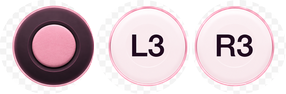
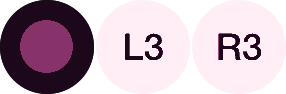
new

diff --git a/option_1/edit.css b/option_1/edit.css
@@ -1,4 +1,4 @@
-/* Sakura PS4 Gamepad Viewer Skin */
+/* Sakura PS4 Gamepad Viewer Skin - clean background + aligned button sprites */
 
 .edit .controller.ds4,
 .controller.edit {